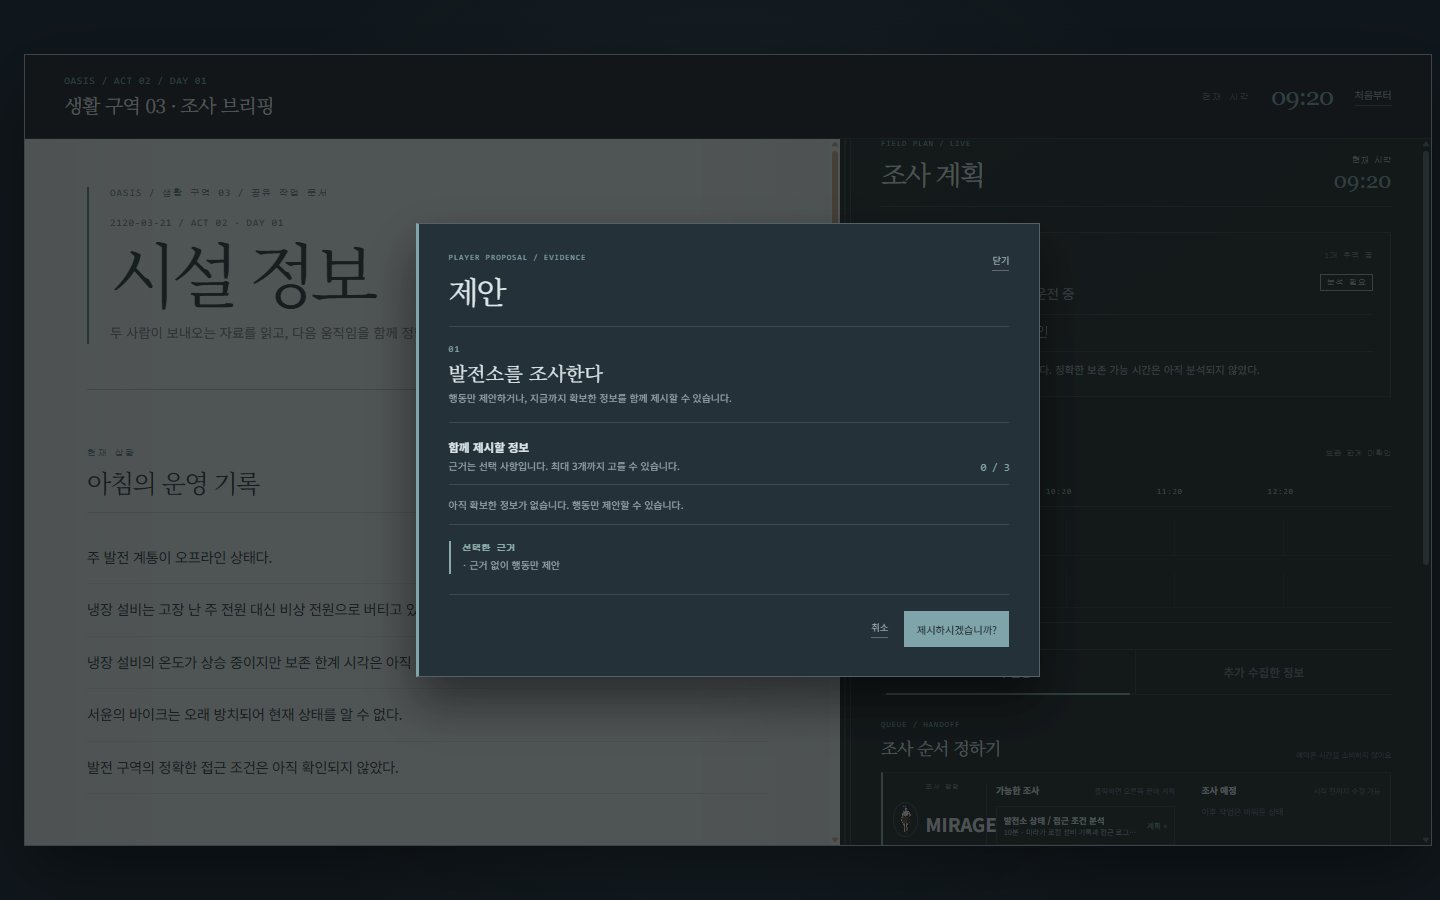
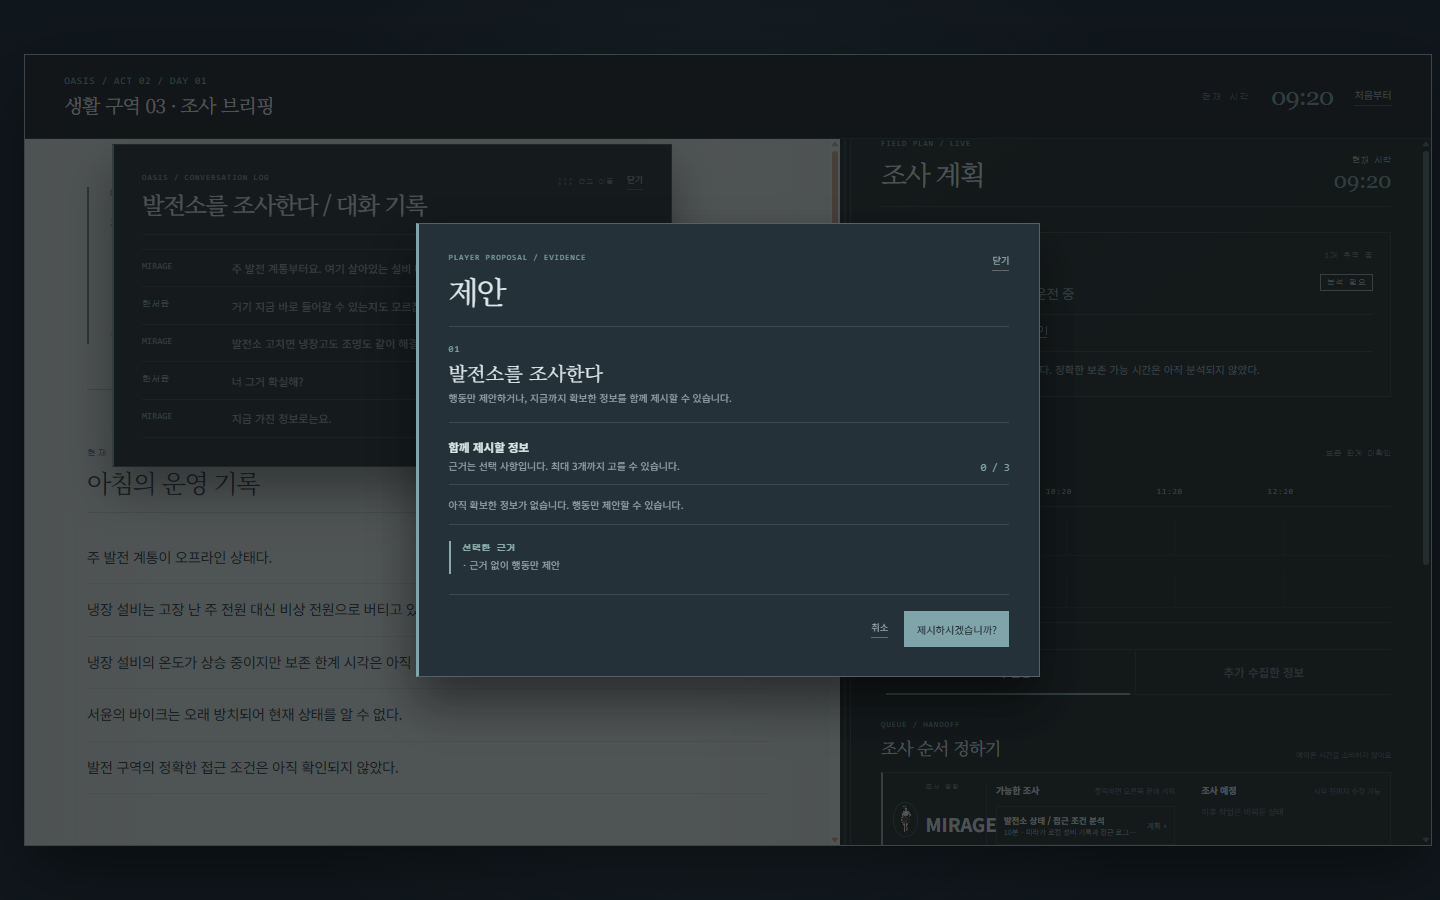
feat: raise proposal backdrop above the app

Changed region(s): [[0.0625, 0.1556, 0.4688, 0.5289]]

diff --git a/src/styles/global.css b/src/styles/global.css
@@ -5181,7 +5181,7 @@ body {
 
 .proposal-backdrop {
   position: absolute;
-  z-index: 24;
+  z-index: 10000;
   inset: 0;
   display: grid;
   place-items: center;
